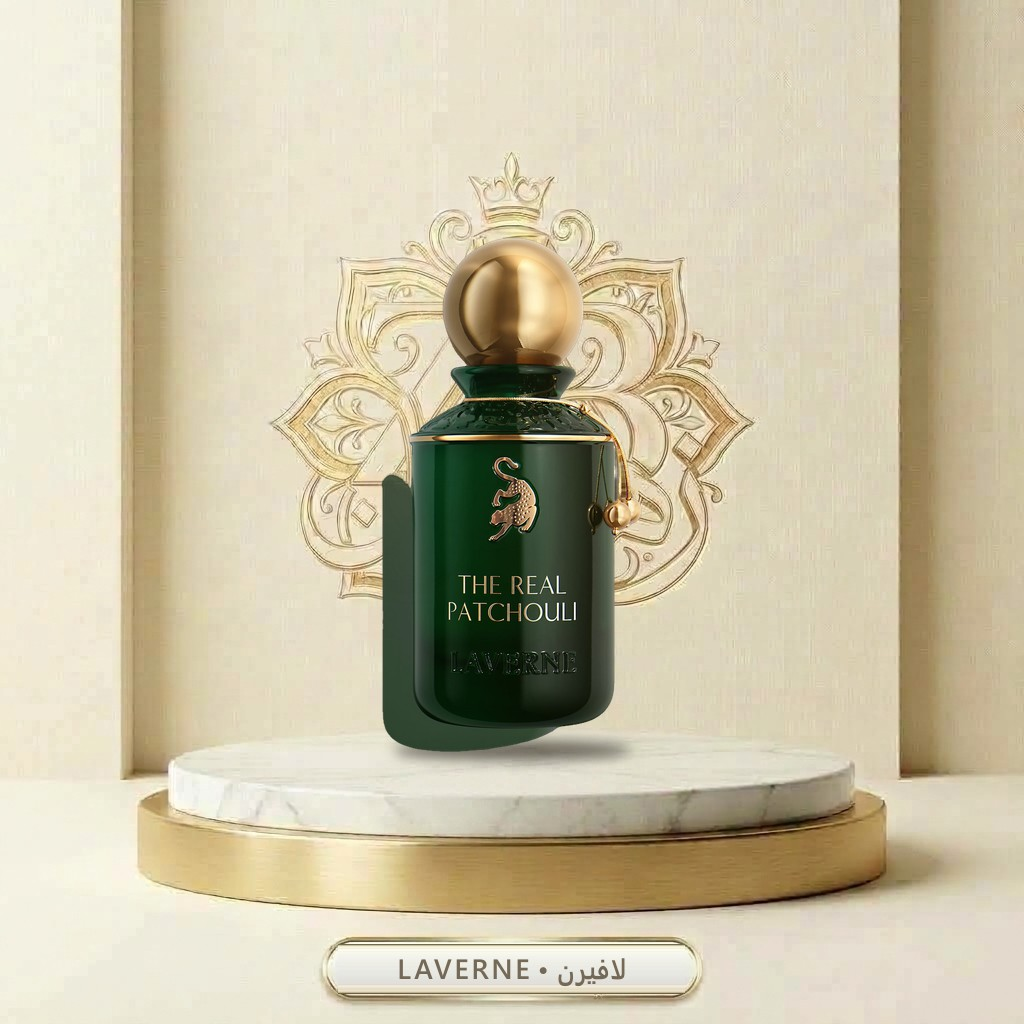
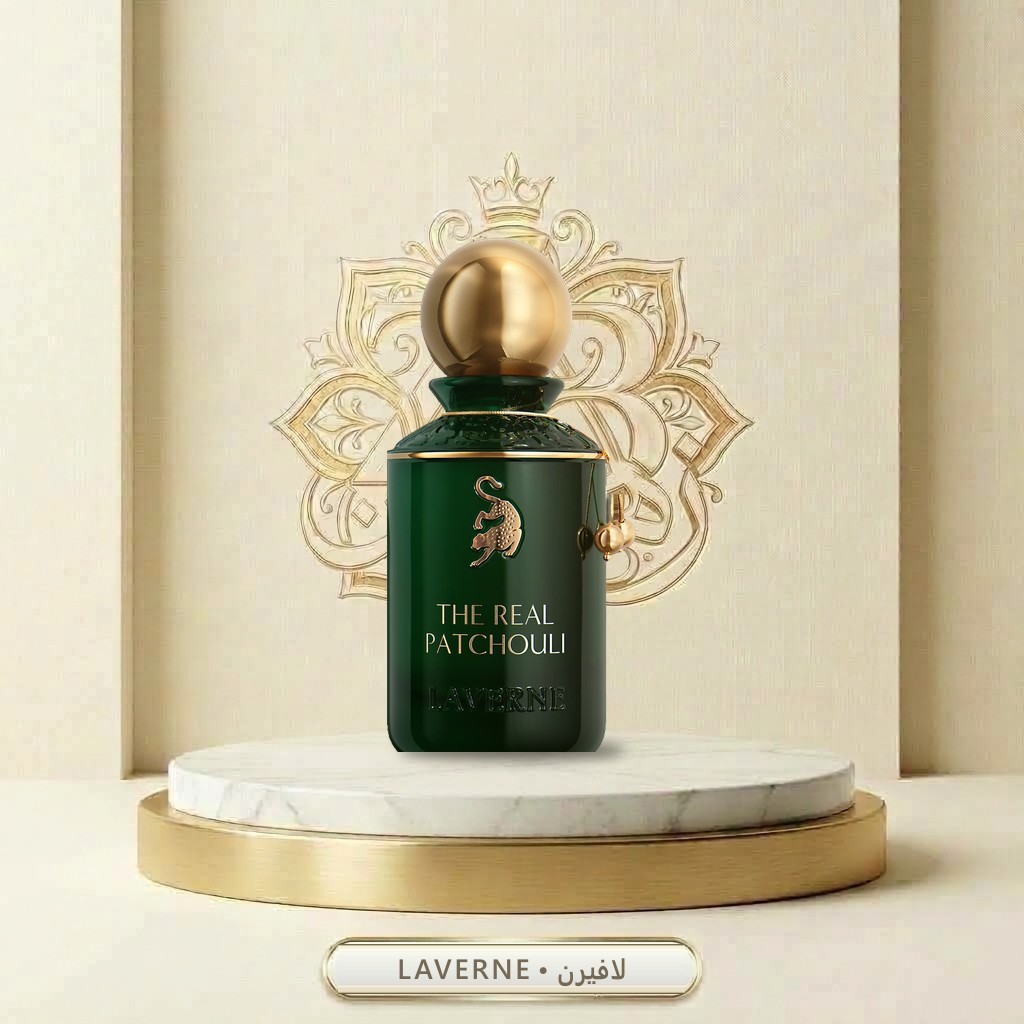
Laverne: grounded bottles, Gentle set photo, singles out of bundles; Takhail photo
- Six Laverne bottles (The Real Patchouli, Extreme Leather, Deep Santal,
  Mystery Oud, Walk Into Orchids, Can't Forget Me) floated above the
  podium on a cast shadow; trim the shadow below and (new
  cutoutStraightLeft) beside the bottle
- Gentle is a set (bottle + pouch): back to bundle, original layout, with
  the set photo from its gallery as the main image, as the owner asked
- The six singles moved to perfumes now also leave Laverne's bundle
  section (subCategory); the two Twist refill pairs move to bundles
- Takhail: use the owner's second photo (clear cap)

Claude-Session: https://claude.ai/code/session_01STVvvRzREoL5Wd8ZBCeqVE

Changed region(s): [[0.375, 0.2188, 0.625, 0.75]]

diff --git a/tools/images/render.py b/tools/images/render.py
@@ -272,7 +272,7 @@ def keep_largest(alpha):
 
 
 def cutout(img, mirror=False, solid=False, mirror_fill_=False, body_clip=None, largest=False,
-           trim_bottom=None, trim_top=None):
+           trim_bottom=None, trim_top=None, straight_left=False):
     from rembg import remove
     img.thumbnail((1200, 1200), Image.LANCZOS)
     rgb = flatten(img)
@@ -297,6 +297,17 @@ def cutout(img, mirror=False, solid=False, mirror_fill_=False, body_clip=None, l
     if solid:
         alpha = solidify(alpha)
         cut = rgb.convert("RGBA")  # the model blanks colours it dropped; use the photo's
+    if straight_left:
+        # The bottle's left side is straight; a shadow bulging past the
+        # body's usual left edge is cut off (charms on the right are kept).
+        rows = np.where(alpha.max(axis=1) > 64)[0]
+        if len(rows):
+            h = rows[-1] - rows[0]
+            body = rows[(rows > rows[0] + h * 0.45) & (rows < rows[0] + h * 0.9)]
+            lefts = [np.nonzero(alpha[y] > 64)[0].min() for y in body]
+            limit = int(np.percentile(lefts, 70)) if lefts else 0
+            for y in rows[rows > rows[0] + h * 0.35]:
+                alpha[y, :limit] = 0
     if trim_top:
         # Drop a sliver of backdrop the model kept on top of a flat cap.
         rows = np.where(alpha.max(axis=1) > 64)[0]
@@ -350,7 +361,8 @@ def showcase(item, house):
                        body_clip=item.get("cutoutClipBodyFrom"),
                        largest=bool(item.get("cutoutKeepLargest")),
                        trim_bottom=item.get("cutoutTrimBottom"),
-                       trim_top=item.get("cutoutTrimTop"))
+                       trim_top=item.get("cutoutTrimTop"),
+                       straight_left=bool(item.get("cutoutStraightLeft")))
     bg = Image.open(IMAGES / HOUSES[house][2]).convert("RGBA").resize((SIZE, SIZE), Image.LANCZOS)
     scale = min(BOTTLE_BOX[0] / cut.width, BOTTLE_BOX[1] / cut.height)
     cut = cut.resize((max(1, round(cut.width * scale)), max(1, round(cut.height * scale))), Image.LANCZOS)

diff --git a/tools/images/README.md b/tools/images/README.md
@@ -32,6 +32,7 @@ Some photos need a hint in the catalog entry before rendering:
 - `cutoutKeepLargest: true` drops props lying next to the bottle (wood chips, petals).
 - `cutoutTrimBottom: 0.08` cuts off a stand or plinth the bottle was photographed on (fraction of the height).
 - `cutoutTrimTop: 0.035` cuts a sliver of backdrop the model kept on top of a flat cap.
+- `cutoutStraightLeft: true` cuts a shadow bulging past the left side of a straight-sided bottle (charms on the right are kept).
 - `cutoutCrop: [l, t, r, b]` crops the source photo (fractions) before the cutout, e.g. to leave out the box next to a bottle.
 
 After rendering, run `python tools/images/thumbs.py` to refresh the card thumbnails. Image URLs carry `?v=<content hash>` so browsers never show a cached older picture; `python tools/images/versions.py` re-syncs them after manual image edits.
